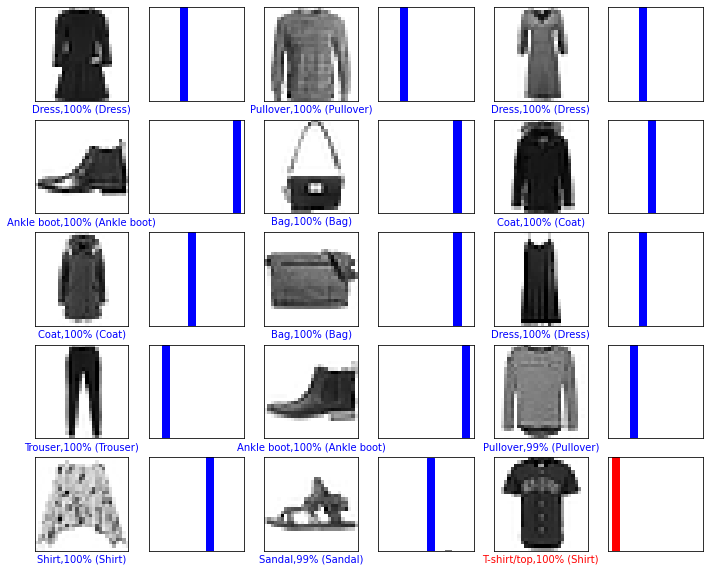
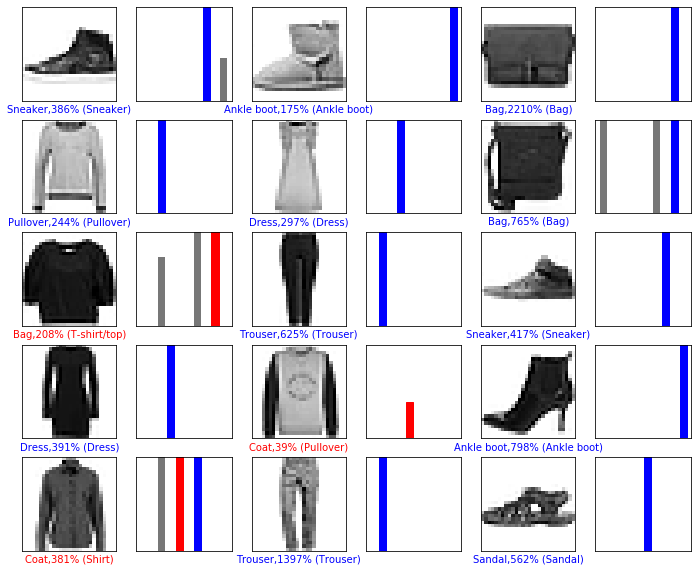
feedforward

diff --git a/feedforward/main.py b/feedforward/main.py
@@ -18,6 +18,37 @@ from mindspore import Tensor
 context.set_context(mode=context.GRAPH_MODE, device_target='Ascend')
 
 
+import argparse
+parser = argparse.ArgumentParser()
+parser.add_argument('--data_url', required=True, default=None, help='Location of data.')
+parser.add_argument('--train_url', required=True, default=None, help='Location of training outputs.')
+args, unknown = parser.parse_known_args()
+
+import moxing
+
+# copy dataset from your own OBS bucket.
+moxing.file.copy_parallel(src_url=args.data_url, dst_url='Fashion-MNIST')
+
+
+cfg = edict({
+    'train_size': 60000,  # 训练集大小
+    'test_size': 10000,  # 测试集大小
+    'channel': 1,  # 图片通道数
+    'image_height': 28,  # 图片高度
+    'image_width': 28,  # 图片宽度
+    'batch_size': 60,
+    'num_classes': 10,  # 分类类别
+    'lr': 0.001,  # 学习率
+    'epoch_size': 20,  # 训练次数
+    'data_dir_train': os.path.join('Fashion-MNIST', 'train'),
+    'data_dir_test': os.path.join('Fashion-MNIST', 'test'),
+    'save_checkpoint_steps': 1,  # 多少步保存一次模型
+    'keep_checkpoint_max': 3,  # 最多保存多少个模型
+    'output_directory': './model_fashion',  # 保存模型路径
+    'output_prefix': "checkpoint_fashion_forward"  # 保存模型文件名字
+})
+
+
 def read_image(file_name):
     '''
     :param file_name: 文件路径
@@ -94,57 +125,18 @@ class Forward_fashion(nn.Cell):
         self.fc1 = nn.Dense(cfg.channel * cfg.image_height * cfg.image_width, 128)
         self.relu = nn.ReLU()
         self.fc2 = nn.Dense(128, self.num_class)
-        self.softmax = nn.Softmax()
 
     def construct(self, x):
         x = self.flatten(x)
         x = self.fc1(x)
         x = self.relu(x)
         x = self.fc2(x)
-        x = self.softmax(x)
         return x
 
 
-import argparse
-parser = argparse.ArgumentParser()
-parser.add_argument('--data_url', required=True, default=None, help='Location of data.')
-parser.add_argument('--train_url', required=True, default=None, help='Location of training outputs.')
-args, unknown = parser.parse_known_args()
-
-import moxing
-
-# WAY1: copy dataset from your own OBS bucket.
-# moxing.file.copy_parallel(src_url=args.data_url, dst_url='Fashion-MNIST')
-
-# WAY2: copy dataset from other's OBS bucket, which has been set public read or public read&write.
-# set moxing/obs auth info, ak:Access Key Id, sk:Secret Access Key, server:endpoint of obs bucket
-moxing.file.set_auth(ak='VCT2GKI3GJOZBQYJG5WM', sk='t1y8M4Z6bHLSAEGK2bCeRYMjo2S2u0QBqToYbxzB',
-                     server="obs.cn-north-4.myhuaweicloud.com")
-# copy dataset from obs bucket to container/cache
-moxing.file.copy_parallel(src_url="s3://share-course/dataset/fashion-mnist/", dst_url='Fashion-MNIST/')
-
-
-cfg = edict({
-    'train_size': 60000,  # 训练集大小
-    'test_size': 10000,  # 测试集大小
-    'channel': 1,  # 图片通道数
-    'image_height': 28,  # 图片高度
-    'image_width': 28,  # 图片宽度
-    'batch_size': 60,
-    'num_classes': 10,  # 分类类别
-    'lr': 0.001,  # 学习率
-    'epoch_size': 20,  # 训练次数
-    'data_dir_train': os.path.join('Fashion-MNIST', 'train'),
-    'data_dir_test': os.path.join('Fashion-MNIST', 'test'),
-    'save_checkpoint_steps': 1,  # 多少步保存一次模型
-    'keep_checkpoint_max': 3,  # 最多保存多少个模型
-    'output_directory': './model_fashion',  # 保存模型路径
-    'output_prefix': "checkpoint_fashion_forward"  # 保存模型文件名字
-})
-
 train_x, train_y, test_x, test_y = get_data()
-train_x = train_x.reshape(-1, 1, 28, 28)
-test_x = test_x.reshape(-1, 1, 28, 28)
+train_x = train_x.reshape(-1, 1, cfg.image_height, cfg.image_width)
+test_x = test_x.reshape(-1, 1, cfg.image_height, cfg.image_width)
 train_x = train_x / 255.0
 test_x = test_x / 255.0
 train_x = train_x.astype('Float32')
@@ -190,9 +182,9 @@ test_ = ds_test.create_dict_iterator().get_next()
 test = Tensor(test_['x'], mindspore.float32)
 predictions = model.predict(test)
 predictions = predictions.asnumpy()
-for i in range(10):
+for i in range(15):
     p_np = predictions[i, :]
     p_list = p_np.tolist()
     print('第' + str(i) + '个sample预测结果：', p_list.index(max(p_list)), '   真实结果：', test_['y'][i])
 
-mox.file.copy_parallel(src_url='model_fashion', dst_url=args.train_url)
+moxing.file.copy_parallel(src_url='model_fashion', dst_url=args.train_url)

diff --git a/feedforward/README.md b/feedforward/README.md
@@ -209,8 +209,8 @@ def get_data():
 
 ```python
 train_x, train_y, test_x, test_y = get_data()
-train_x = train_x.reshape(-1, 1, 28, 28)
-test_x = test_x.reshape(-1, 1, 28, 28)
+train_x = train_x.reshape(-1, 1, cfg.image_height, cfg.image_width)
+test_x = test_x.reshape(-1, 1, cfg.image_height, cfg.image_width)
 train_x = train_x / 255.0
 test_x = test_x / 255.0
 train_x = train_x.astype('Float32')
@@ -269,14 +269,12 @@ class Forward_fashion(nn.Cell):
         self.fc1 = nn.Dense(cfg.channel * cfg.image_height * cfg.image_width, 128)
         self.relu = nn.ReLU()
         self.fc2 = nn.Dense(128, self.num_class)
-        self.softmax = nn.Softmax()
 
     def construct(self, x):
         x = self.flatten(x)
         x = self.fc1(x)
         x = self.relu(x)
         x = self.fc2(x)
-        x = self.softmax(x)
         return x
 ```
 
@@ -305,65 +303,65 @@ model.train(cfg.epoch_size, ds_train, callbacks=[ckpoint_cb, loss_cb], dataset_s
 ```
 
     ============== Starting Training ==============
-    epoch: 1 step 1000, loss is 1.6292920112609863
-    Epoch time: 8827.199, per step time: 8.827, avg loss: 1.629
+    epoch: 1 step 1000, loss is 0.567767322063446
+    Epoch time: 11428.370, per step time: 11.428, avg loss: 0.568
     ************************************************************
-    epoch: 2 step 1000, loss is 1.6026073694229126
-    Epoch time: 1601.618, per step time: 1.602, avg loss: 1.603
+    epoch: 2 step 1000, loss is 0.3970850706100464
+    Epoch time: 2018.074, per step time: 2.018, avg loss: 0.397
     ************************************************************
-    epoch: 3 step 1000, loss is 1.6622530221939087
-    Epoch time: 1629.635, per step time: 1.630, avg loss: 1.662
+    epoch: 3 step 1000, loss is 0.31815576553344727
+    Epoch time: 1971.219, per step time: 1.971, avg loss: 0.318
     ************************************************************
-    epoch: 4 step 1000, loss is 1.6305657625198364
-    Epoch time: 1471.701, per step time: 1.472, avg loss: 1.631
+    epoch: 4 step 1000, loss is 0.3128049373626709
+    Epoch time: 1974.937, per step time: 1.975, avg loss: 0.313
     ************************************************************
-    epoch: 5 step 1000, loss is 1.5535054206848145
-    Epoch time: 1770.755, per step time: 1.771, avg loss: 1.554
+    epoch: 5 step 1000, loss is 0.3095005750656128
+    Epoch time: 2029.930, per step time: 2.030, avg loss: 0.310
     ************************************************************
-    epoch: 6 step 1000, loss is 1.5950586795806885
-    Epoch time: 1985.995, per step time: 1.986, avg loss: 1.595
+    epoch: 6 step 1000, loss is 0.25628671050071716
+    Epoch time: 1934.886, per step time: 1.935, avg loss: 0.256
     ************************************************************
-    epoch: 7 step 1000, loss is 1.6165529489517212
-    Epoch time: 1928.856, per step time: 1.929, avg loss: 1.617
+    epoch: 7 step 1000, loss is 0.24347715079784393
+    Epoch time: 1897.307, per step time: 1.897, avg loss: 0.243
     ************************************************************
-    epoch: 8 step 1000, loss is 1.5757038593292236
-    Epoch time: 1814.812, per step time: 1.815, avg loss: 1.576
+    epoch: 8 step 1000, loss is 0.28936269879341125
+    Epoch time: 1921.264, per step time: 1.921, avg loss: 0.289
     ************************************************************
-    epoch: 9 step 1000, loss is 1.5905802249908447
-    Epoch time: 1558.252, per step time: 1.558, avg loss: 1.591
+    epoch: 9 step 1000, loss is 0.4469510316848755
+    Epoch time: 1875.093, per step time: 1.875, avg loss: 0.447
     ************************************************************
-    epoch: 10 step 1000, loss is 1.5414245128631592
-    Epoch time: 1456.539, per step time: 1.457, avg loss: 1.541
+    epoch: 10 step 1000, loss is 0.2915213108062744
+    Epoch time: 1876.605, per step time: 1.877, avg loss: 0.292
     ************************************************************
-    epoch: 11 step 1000, loss is 1.5789177417755127
-    Epoch time: 1591.151, per step time: 1.591, avg loss: 1.579
+    epoch: 11 step 1000, loss is 0.24928903579711914
+    Epoch time: 1910.094, per step time: 1.910, avg loss: 0.249
     ************************************************************
-    epoch: 12 step 1000, loss is 1.5879883766174316
-    Epoch time: 2011.590, per step time: 2.012, avg loss: 1.588
+    epoch: 12 step 1000, loss is 0.12853321433067322
+    Epoch time: 1974.167, per step time: 1.974, avg loss: 0.129
     ************************************************************
-    epoch: 13 step 1000, loss is 1.5823071002960205
-    Epoch time: 1663.497, per step time: 1.663, avg loss: 1.582
+    epoch: 13 step 1000, loss is 0.14836660027503967
+    Epoch time: 1841.105, per step time: 1.841, avg loss: 0.148
     ************************************************************
-    epoch: 14 step 1000, loss is 1.6213573217391968
-    Epoch time: 1914.475, per step time: 1.914, avg loss: 1.621
+    epoch: 14 step 1000, loss is 0.26581835746765137
+    Epoch time: 1694.728, per step time: 1.695, avg loss: 0.266
     ************************************************************
-    epoch: 15 step 1000, loss is 1.6282684803009033
-    Epoch time: 1921.290, per step time: 1.921, avg loss: 1.628
+    epoch: 15 step 1000, loss is 0.2012856900691986
+    Epoch time: 1937.829, per step time: 1.938, avg loss: 0.201
     ************************************************************
-    epoch: 16 step 1000, loss is 1.5011317729949951
-    Epoch time: 1899.634, per step time: 1.900, avg loss: 1.501
+    epoch: 16 step 1000, loss is 0.14978612959384918
+    Epoch time: 1793.748, per step time: 1.794, avg loss: 0.150
     ************************************************************
-    epoch: 17 step 1000, loss is 1.566664457321167
-    Epoch time: 1495.834, per step time: 1.496, avg loss: 1.567
+    epoch: 17 step 1000, loss is 0.3085048198699951
+    Epoch time: 1667.389, per step time: 1.667, avg loss: 0.309
     ************************************************************
-    epoch: 18 step 1000, loss is 1.552886724472046
-    Epoch time: 1449.513, per step time: 1.450, avg loss: 1.553
+    epoch: 18 step 1000, loss is 0.17254383862018585
+    Epoch time: 1558.955, per step time: 1.559, avg loss: 0.173
     ************************************************************
-    epoch: 19 step 1000, loss is 1.6042685508728027
-    Epoch time: 1721.564, per step time: 1.722, avg loss: 1.604
+    epoch: 19 step 1000, loss is 0.10585948824882507
+    Epoch time: 1567.354, per step time: 1.567, avg loss: 0.106
     ************************************************************
-    epoch: 20 step 1000, loss is 1.5174891948699951
-    Epoch time: 1633.871, per step time: 1.634, avg loss: 1.517
+    epoch: 20 step 1000, loss is 0.27113234996795654
+    Epoch time: 1589.239, per step time: 1.589, avg loss: 0.271
     ************************************************************
 
 #### 评估测试
@@ -374,7 +372,7 @@ metric = model.eval(ds_test)
 print(metric)
 ```
 
-    {'acc': 0.8715863453815261}
+    {'acc': 0.8862449799196788}
 
 #### 预测
 
@@ -384,22 +382,27 @@ test_ = ds_test.create_dict_iterator().get_next()
 test = Tensor(test_['x'], mindspore.float32)
 predictions = model.predict(test)
 predictions = predictions.asnumpy()
-for i in range(10):
+for i in range(15):
     p_np = predictions[i, :]
     p_list = p_np.tolist()
     print('第' + str(i) + '个sample预测结果：', p_list.index(max(p_list)), '   真实结果：', test_['y'][i])
 ```
 
-    第0个sample预测结果： 3    真实结果： 3
-    第1个sample预测结果： 2    真实结果： 2
-    第2个sample预测结果： 3    真实结果： 3
-    第3个sample预测结果： 9    真实结果： 9
+    第0个sample预测结果： 1    真实结果： 1
+    第1个sample预测结果： 0    真实结果： 0
+    第2个sample预测结果： 2    真实结果： 2
+    第3个sample预测结果： 2    真实结果： 2
     第4个sample预测结果： 8    真实结果： 8
     第5个sample预测结果： 4    真实结果： 4
     第6个sample预测结果： 4    真实结果： 4
-    第7个sample预测结果： 8    真实结果： 8
-    第8个sample预测结果： 3    真实结果： 3
-    第9个sample预测结果： 1    真实结果： 1
+    第7个sample预测结果： 1    真实结果： 1
+    第8个sample预测结果： 6    真实结果： 2
+    第9个sample预测结果： 8    真实结果： 8
+    第10个sample预测结果： 5    真实结果： 5
+    第11个sample预测结果： 8    真实结果： 0
+    第12个sample预测结果： 5    真实结果： 5
+    第13个sample预测结果： 6    真实结果： 6
+    第14个sample预测结果： 9    真实结果： 9
 
 #### 对预测结果可视化
 
@@ -471,29 +474,18 @@ args, unknown = parser.parse_known_args()
 
 MindSpore暂时没有提供直接访问OBS数据的接口，需要通过MoXing提供的API与OBS交互。将OBS中存储的数据拷贝至执行容器：
 
-- 方式一，拷贝自己账户下OBS桶内的数据集。
-    
-    ```python
-    import moxing
-    moxing.file.copy_parallel(src_url=args.data_url, dst_url='Fashion-MNIST/')
-    ```
+拷贝自己账户下OBS桶内的数据集。
 
-- 方式二，拷贝他人账户下OBS桶内的数据集，前提是他人账户下的OBS桶已设为公共读/公共读写，且需要他人账户的访问密钥、私有访问密钥、OBS桶-概览-基本信息-Endpoint。
-    
-    ```python
-    import moxing
-    # set moxing/obs auth info, ak:Access Key Id, sk:Secret Access Key, server:endpoint of obs bucket
-    moxing.file.set_auth(ak='VCT2GKI3GJOZBQYJG5WM', sk='t1y8M4Z6bHLSAEGK2bCeRYMjo2S2u0QBqToYbxzB',
-                         server="obs.cn-north-4.myhuaweicloud.com")
-    # copy dataset from obs bucket to container/cache
-    moxing.file.copy_parallel(src_url="s3://share-course/dataset/fashion-mnist/", dst_url='Fashion-MNIST/')
-    ```
+```python
+import moxing
+moxing.file.copy_parallel(src_url=args.data_url, dst_url='Fashion-MNIST/')
+```
 
 如需将训练输出（如模型Checkpoint）从执行容器拷贝至OBS，请参考：
 
 ```python
-import moxing as mox
-mox.file.copy_parallel(src_url='model_fashion', dst_url=args.train_url)    
+import moxing
+moxing.file.copy_parallel(src_url='model_fashion', dst_url=args.train_url)   
 ```
 
 ### 创建训练作业
